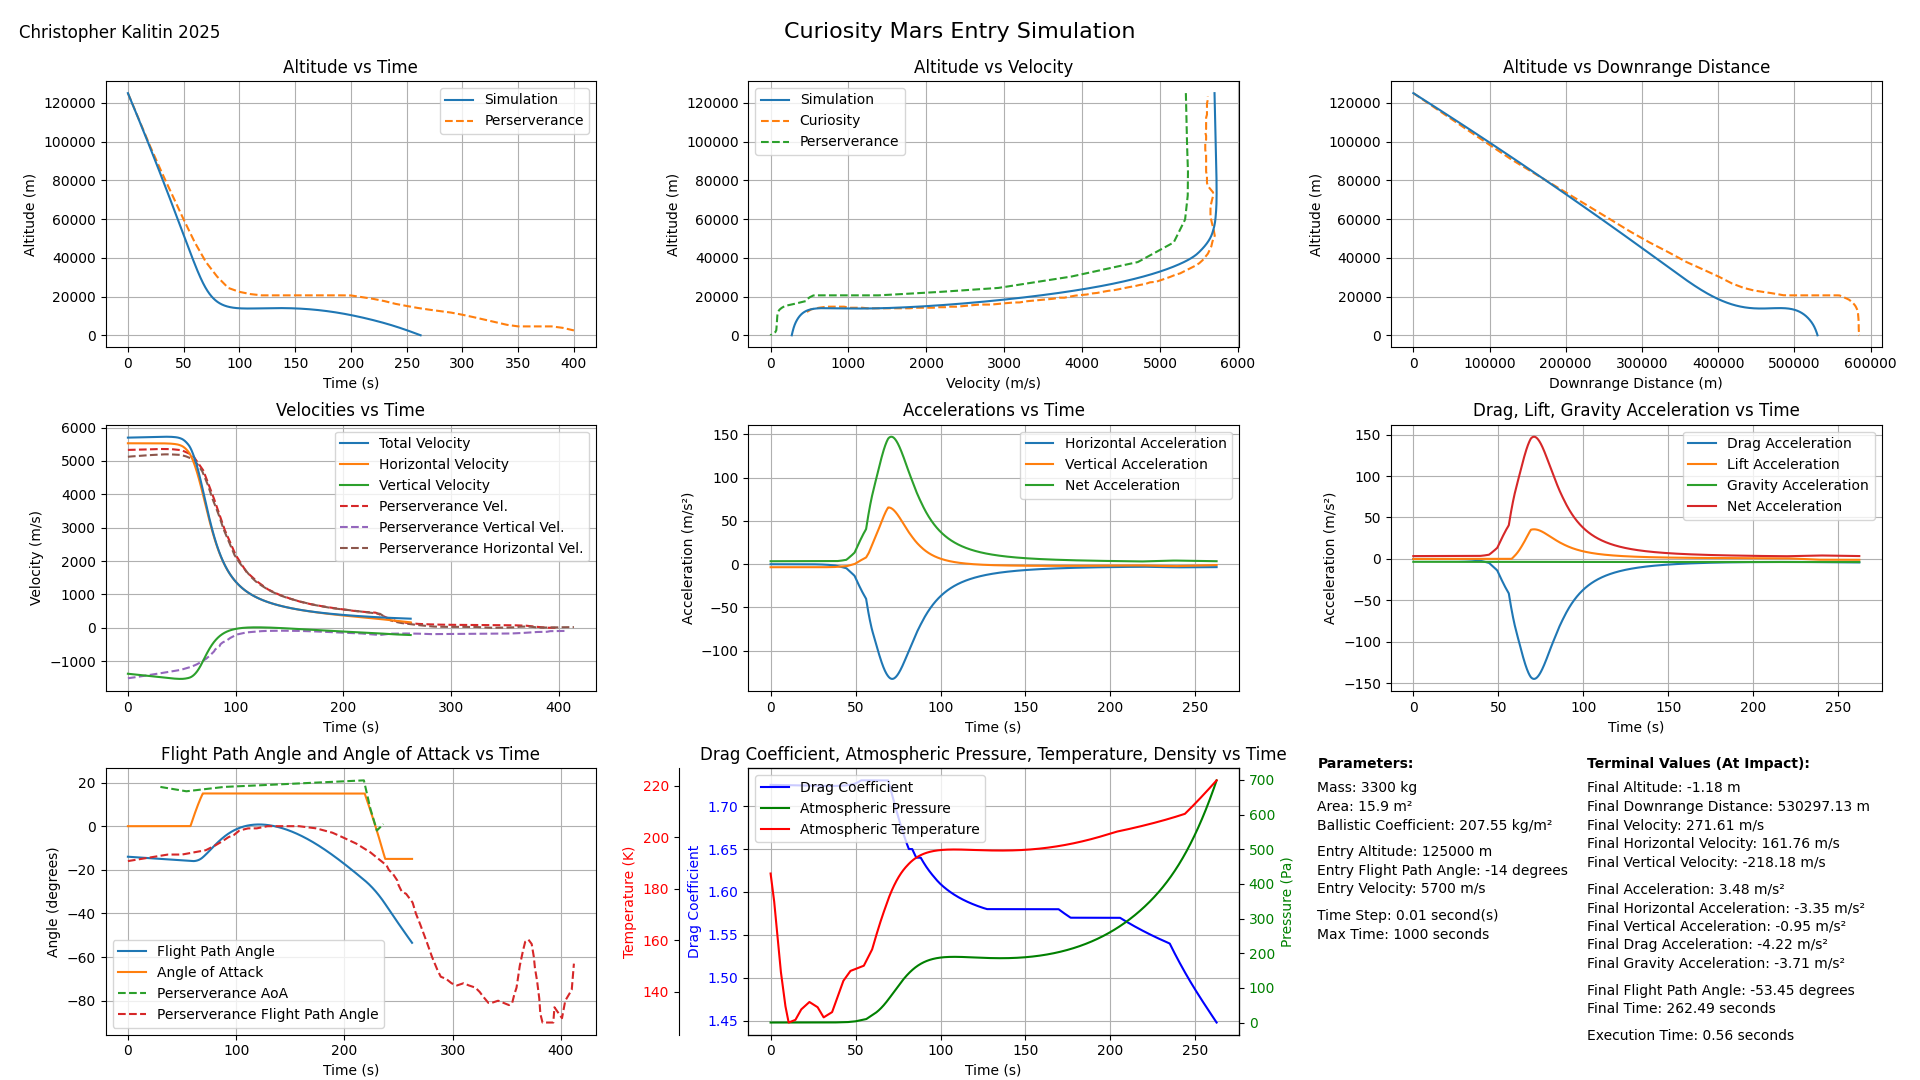
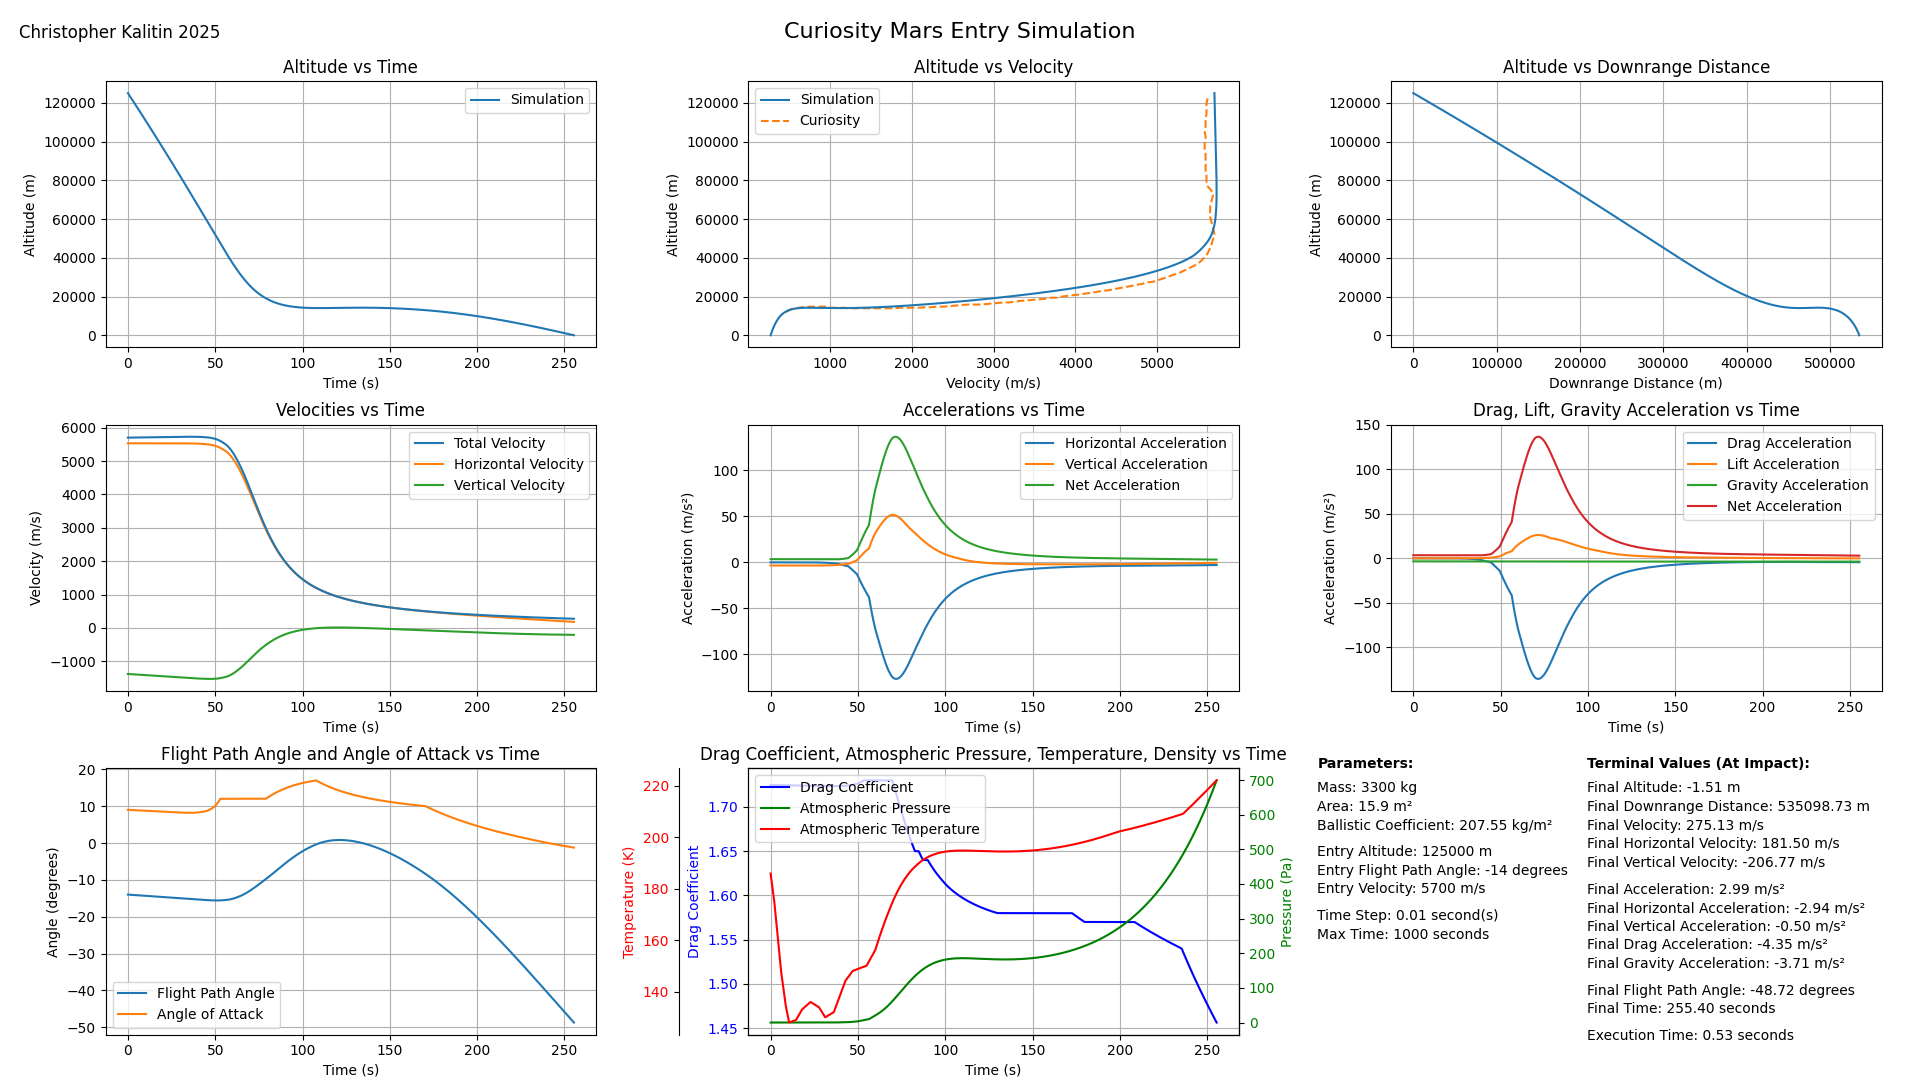
Curiosity backfit fixed for aoa vs. vel

diff --git a/Project/backtest.py b/Project/backtest.py
@@ -131,13 +131,14 @@ perserverance = {
     'FlightPathAngleVsTime-label': "Perserverance Flight Path Angle",
 }
 
-# Altitude vs. AoA, interpolated
+# Velocity vs. AoA, interpolated
 curiosity_aoa = [
-    (125000, 0),
-    (40000, 0),
-    (25000, 15),
-    (8000, 15),
-    (5000, -15),
+    (6000, 0),
+    (5600, 12),
+    (4800, 12),
+    (3000, 12),
+    (1200, 17),
+    (500, 10),
     (0, -15)
 ]
 
@@ -153,16 +154,15 @@ curiosity_data = sim.simulate(
     verbose=False,
 )
 
+# Velocity vs. AoA, interpolated
 perserverance_aoa = [
-    (125000, 0),
-    (80000, 0),
-    (60000, 15),
-    (23000, 18.5),
-    (20000, 13),
-    (15000, 5),
-    (13000, 0),
-    (10000, 0),
-    (5000, -15),
+    (6000, 15),
+    (5200, 20),
+    (3000, 15),
+    (2000, 15),
+    (1000, 15),
+    (500, 17),
+    (300, -15),
     (0, -15)
 ]
 
@@ -206,6 +206,6 @@ opportunity_data = sim.simulate(
 """
 
 sim.plot(perserverance_data, "Perserverance Mars Entry Simulation", filename="backtest/Perserverance.png", comparisons=[perserverance], show=False)
-#sim.plot(curiosity_data, "Curiosity Mars Entry Simulation", filename="backtest/Curiosity.png", comparisons=[curiosity, perserverance], show=False)
+sim.plot(curiosity_data, "Curiosity Mars Entry Simulation", filename="backtest/Curiosity.png", comparisons=[curiosity], show=False)
 #sim.plot(phoenix_data, "Phoenix Mars Entry Simulation", filename="backtest/Phoenix.png", comparisons=[phoenix], show=False)
 #sim.plot(opportunity_data, "Opportunity Mars Entry Simulation", filename="backtest/Opportunity.png", comparisons=[opportunity], show=False)

diff --git a/Project/sim.py b/Project/sim.py
@@ -59,7 +59,7 @@ def simulate(time_step=None, time_max=None, mass=None, area=None, aoa=None, entr
         drag_coeff = utils.get_interpolated_drag_coefficient(velocity)
         drag_acc = utils.get_drag_acc(mass, velocity, area, drag_coeff, atm_density)
         
-        aoa = utils.get_interpolated_aoa(aoa_list, altitude)
+        aoa = utils.get_interpolated_aoa(aoa_list, velocity)
         angles_of_attack.append(aoa)
         
         lift_to_drag_ratio = utils.get_interpolated_lift_to_drag_ratio(aoa)

diff --git a/Project/utils.py b/Project/utils.py
@@ -76,8 +76,8 @@ def get_numpy_aoa_list(aoa_list):
     out[:, 1] = out[:, 1][::-1]
     return out
 
-def get_interpolated_aoa(numpy_aoa_list, alt):
-    return np.interp(alt, numpy_aoa_list[:,0], numpy_aoa_list[:,1])
+def get_interpolated_aoa(numpy_aoa_list, vel):
+    return np.interp(vel, numpy_aoa_list[:,0], numpy_aoa_list[:,1])
 
 def get_atmospheric_pressure(alt):
     # alt = meters, atmospheric pressure = Pa

diff --git a/README.md b/README.md
@@ -9,6 +9,4 @@ Project Blog Post: Soon!
 
 # Todo
 1. Get Tianwen-1 data
-2. Get Perseverance data
-3. Get raw Opportunity data
 4. Model Starship
